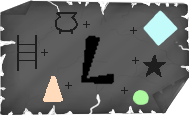
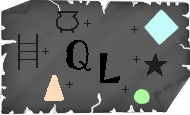
mejorado el salto

diff --git a/ElEnigmaDeLaTorreEncantada/src/scenes/GameScene.js b/ElEnigmaDeLaTorreEncantada/src/scenes/GameScene.js
@@ -1,7 +1,7 @@
 import Phaser from 'phaser';
 import {Mago} from '../entities/Mago'
 import { CommandProcessor } from '../command/commandProcessor';
-import { MovePaddleCommand } from '../command/MovePaddleCommand';
+import { MoveMagoCommand } from '../command/MoveMagoCommand';
 import { PauseGameCommand } from '../command/PauseGameCommand';
 
 export class GameScene extends Phaser.Scene {
@@ -50,12 +50,10 @@ export class GameScene extends Phaser.Scene {
     init(){
         this.players = new Map();
         this.inputMappings = [];
-        this.ball = null;
         this.isPaused = false;
         this.escWasDown = false;
         this.lPulsada = false; 
         this.processor = new CommandProcessor(); 
-        this. maxJump = 3; 
         this.cofreAbierto = false;
         
         // Array de booleanos que representa que objetos han recogido entre ambos jugadores
@@ -129,7 +127,7 @@ export class GameScene extends Phaser.Scene {
         this.escWasDown = this.escKey.isDown;        
         
         this.lPulsada = false; //volver a poner a false si no ha habido overlap
-        if(this.lkey.isDown) this.lPulsada = true; 
+        if(this.lkey.isDown || this.qkey.isDown) this.lPulsada = true; 
 
         // Comprobar si alguno de los jugadores está saltando
         this.players.forEach(mago => {
@@ -139,6 +137,7 @@ export class GameScene extends Phaser.Scene {
         this.inputMappings.forEach(mapping => {
             const mago = this.players.get(mapping.playerId);
             let direction = null; 
+            let salto = false; 
             if(mapping.upKeyObj.isDown){
                 direction = 'up'; 
                 mago.andar_animacion();
@@ -152,14 +151,26 @@ export class GameScene extends Phaser.Scene {
              } else if (mapping.rightKeyObj.isDown){
                 direction  = 'right';    
                 mago.sprite.flipX = true;  
-                mago.andar_animacion();    
+                mago.andar_animacion();              
              } else{
                 direction = 'stop'; 
                 mago.andar_animacion_parar();
             }
-            let moveCommand = new MovePaddleCommand(mago, direction);
+
+            if (mapping.jumpObj.isDown){
+                if (mago.sprite.body.blocked.down || mago.sprite.body.touching.down || mago.sprite.body.blocked.up) {
+                    salto = true;
+                    mago.andar_animacion_parar();
+                }
+            }
+            let moveCommand = new MoveMagoCommand(mago, direction, salto);
             this.processor.process(moveCommand); 
+
+
+
         });
+
+        
     }
 
     crearEscenario(){
@@ -239,7 +250,7 @@ export class GameScene extends Phaser.Scene {
 
     crearBarreraInvisible(){
         // Crear una barrera invisible que evita que suba hacia arriba (pero pueda andar libremente por el suelo)
-        this.barreraInvisible = this.physics.add.staticImage(500, 400, null);
+        this.barreraInvisible = this.physics.add.staticImage(500, 350, null);
         this.barreraInvisible.setSize(1000, 10); // Wide barrier, thin height
         this.barreraInvisible.setVisible(false);
         this.barreraInvisible.body.setSize(1000, 10);
@@ -256,7 +267,6 @@ export class GameScene extends Phaser.Scene {
         this.calderoColl.body.setAllowGravity(false); 
         this.calderoColl.body.setImmovable(true); 
         this.calderoColl.setAlpha(0.0); 
-        //this.calderoColl.setScale(5, 5);
         this.calderoColl.setCircle(85);
         this.calderoColl.body.setOffset(-70,-55);
     }
@@ -267,10 +277,13 @@ export class GameScene extends Phaser.Scene {
         this.plataformas.create(510, 315, 'estanteR'); 
         this.plataformas.create(570, 315, 'estanteR'); 
         this.plataformas.create(446, 230, 'estanteR'); 
-        this.plataformas.create(330, 350, 'estanteR'); 
+        this.plataformas.create(380, 350, 'estanteR'); 
         this.plataformas.create(650, 350, 'estanteR'); 
-        this.plataformas.create(330, 215, 'estanteR'); 
+        this.plataformas.create(360, 215, 'estanteR'); 
+        this.plataformas.create(295, 215, 'estanteR'); 
         this.plataformas.create(650, 215, 'estanteR'); 
+        this.plataformas.create(300, 420, 'estanteR'); 
+        this.plataformas.create(700, 420, 'estanteR'); 
     }
 
     establecerColisiones(){
@@ -318,8 +331,8 @@ export class GameScene extends Phaser.Scene {
             this.physics.add.overlap(player.sprite, this.caldero, () => {
                 if(Phaser.Input.Keyboard.JustDown(this.lkey) || Phaser.Input.Keyboard.JustDown(this.qkey)) { // Comprobar que se ha pulsado la tecla L o Q para crear la pocion (si se mantiene pulsada la tecla no entrará varias veces a la función)
                     let elemRecogidos = this.inventario.filter(elem => elem === true); // crear un segundo array con unicamente los elementos recogidos
-                    if(elemRecogidos.length === 3){ // primero comprobar que se han recogido 3 elementos
-                        if(this.inventario[3] && this.inventario[5] && this.inventario[7]){ // comprobar que esos elementos recogidos son las pociones verde, azul y naranja 
+                    if(elemRecogidos.length === 3 || elemRecogidos.lenght === 4){ // primero comprobar que se han recogido 3 elementos
+                        if(this.inventario[3] && this.inventario[5] && this.inventario[7] ){ // comprobar que esos elementos recogidos son las pociones verde, azul y naranja 
                             console.log("Poción de disminuir tamaño creada");
                         }
                     } else {
@@ -330,7 +343,7 @@ export class GameScene extends Phaser.Scene {
                     }
 
                     // volver a poner a false todos los elementos del inventario
-                    for (let i = 1; i < this.inventario.length; i++){ // se salta la llave porque no se utiliza para crear la pocion
+                    for (let i = 1; i < this.inventario.length-2; i++){ // se salta la llave y las estrellas porque no se utilizan para crear la pocion
                         this.inventario[i] = false; 
                     }
                 }                   
@@ -385,12 +398,11 @@ export class GameScene extends Phaser.Scene {
         this.estrella1.setAlpha(1.0);
         this.estrella2.setAlpha(1.0);
         this.cofreAbierto = true; // para que solo se abra una vez
+        this.inventario[0] = false; // quitar la llave del inventario al abrir el cofre
 
     }
 
     recogerEstrella(n){
-        this.inventario[11] = true;
-        this.inventario[12] = true;
         if(this.cofreAbierto){ // solo se puede recoger si el cofre está abierto (porque sino están ocultas)
             console.log("Estrella " + n + " recogida");
             this.inventario[10 + n] = true; // marcar en el inventario que se ha conseguido la estrella (11 y 12 en el array)
@@ -435,13 +447,15 @@ export class GameScene extends Phaser.Scene {
                 downKey:'S',
                 leftKey: 'A',
                 rightKey: 'D',
+                jump: 'SPACE'
             },
             {
                 playerId: 'player2',
                 upKey: 'UP',
                 downKey:'DOWN',
                 leftKey: 'LEFT',
-                rightKey: 'RIGHT'
+                rightKey: 'RIGHT',
+                jump: 'ENTER'
             }
         ]
 
@@ -453,7 +467,7 @@ export class GameScene extends Phaser.Scene {
                 downKeyObj: this.input.keyboard.addKey(Phaser.Input.Keyboard.KeyCodes[config.downKey]),
                 leftKeyObj: this.input.keyboard.addKey(Phaser.Input.Keyboard.KeyCodes[config.leftKey]),
                 rightKeyObj: this.input.keyboard.addKey(Phaser.Input.Keyboard.KeyCodes[config.rightKey]),
-            }
+                jumpObj: this.input.keyboard.addKey(Phaser.Input.Keyboard.KeyCodes[config.jump]),}
         });   
     }
 

diff --git a/ElEnigmaDeLaTorreEncantada/src/command/MoveMagoCommand.js b/ElEnigmaDeLaTorreEncantada/src/command/MoveMagoCommand.js
@@ -1,0 +1,28 @@
+import { Command } from "./Command";
+
+export class MoveMagoCommand extends Command {
+    constructor(mago, direction, salto){
+        super();
+        this.mago = mago;
+        this.direction = direction; 
+        this.salto = salto; 
+    }
+
+    execute(){
+        if(this.direction === 'up'){
+            this.mago.sprite.setVelocityY(-this.mago.baseSpeed);
+        } else if(this.direction === 'down'){
+            this.mago.sprite.setVelocityY(+this.mago.baseSpeed);
+        } else if(this.direction === 'left'){
+            this.mago.sprite.setVelocityX(-this.mago.baseSpeed);
+        } else if(this.direction === 'right'){
+            this.mago.sprite.setVelocityX(+this.mago.baseSpeed);
+        }else{
+            this.mago.sprite.setVelocityY(0); 
+            this.mago.sprite.setVelocityX(0); 
+        }
+        if(this.salto){
+            this.mago.sprite.setVelocityY(-this.mago.baseSpeed*9 );
+        }
+    }
+}

diff --git a/ElEnigmaDeLaTorreEncantada/src/scenes/LibreriaScene.js b/ElEnigmaDeLaTorreEncantada/src/scenes/LibreriaScene.js
@@ -1,7 +1,7 @@
 import Phaser from 'phaser';
 import {Mago} from '../entities/Mago'
 import { CommandProcessor } from '../command/commandProcessor';
-import { MovePaddleCommand } from '../command/MovePaddleCommand';
+import { MoveMagoCommand } from '../command/MoveMagoCommand';
 
 export class LibreriaScene extends Phaser.Scene {
 
@@ -73,7 +73,7 @@ export class LibreriaScene extends Phaser.Scene {
              } else{
                 direction = 'stop'; 
             }
-            let moveCommand = new MovePaddleCommand(paddle, direction);
+            let moveCommand = new MoveMagoCommand(paddle, direction);
             this.processor.process(moveCommand); 
         });
     }

diff --git a/ElEnigmaDeLaTorreEncantada/src/main.js b/ElEnigmaDeLaTorreEncantada/src/main.js
@@ -14,8 +14,8 @@ const config = {
     physics: {
         default: 'arcade',
         arcade: {
-            gravity: { y: 10000 },
-            debug: false
+            gravity: { y: 20000 },
+            debug: true
         }
     },
     scene: [ GameScene,  LibreriaScene, MenuScene, PauseScene, CreditsScene, HistoriaScene],
